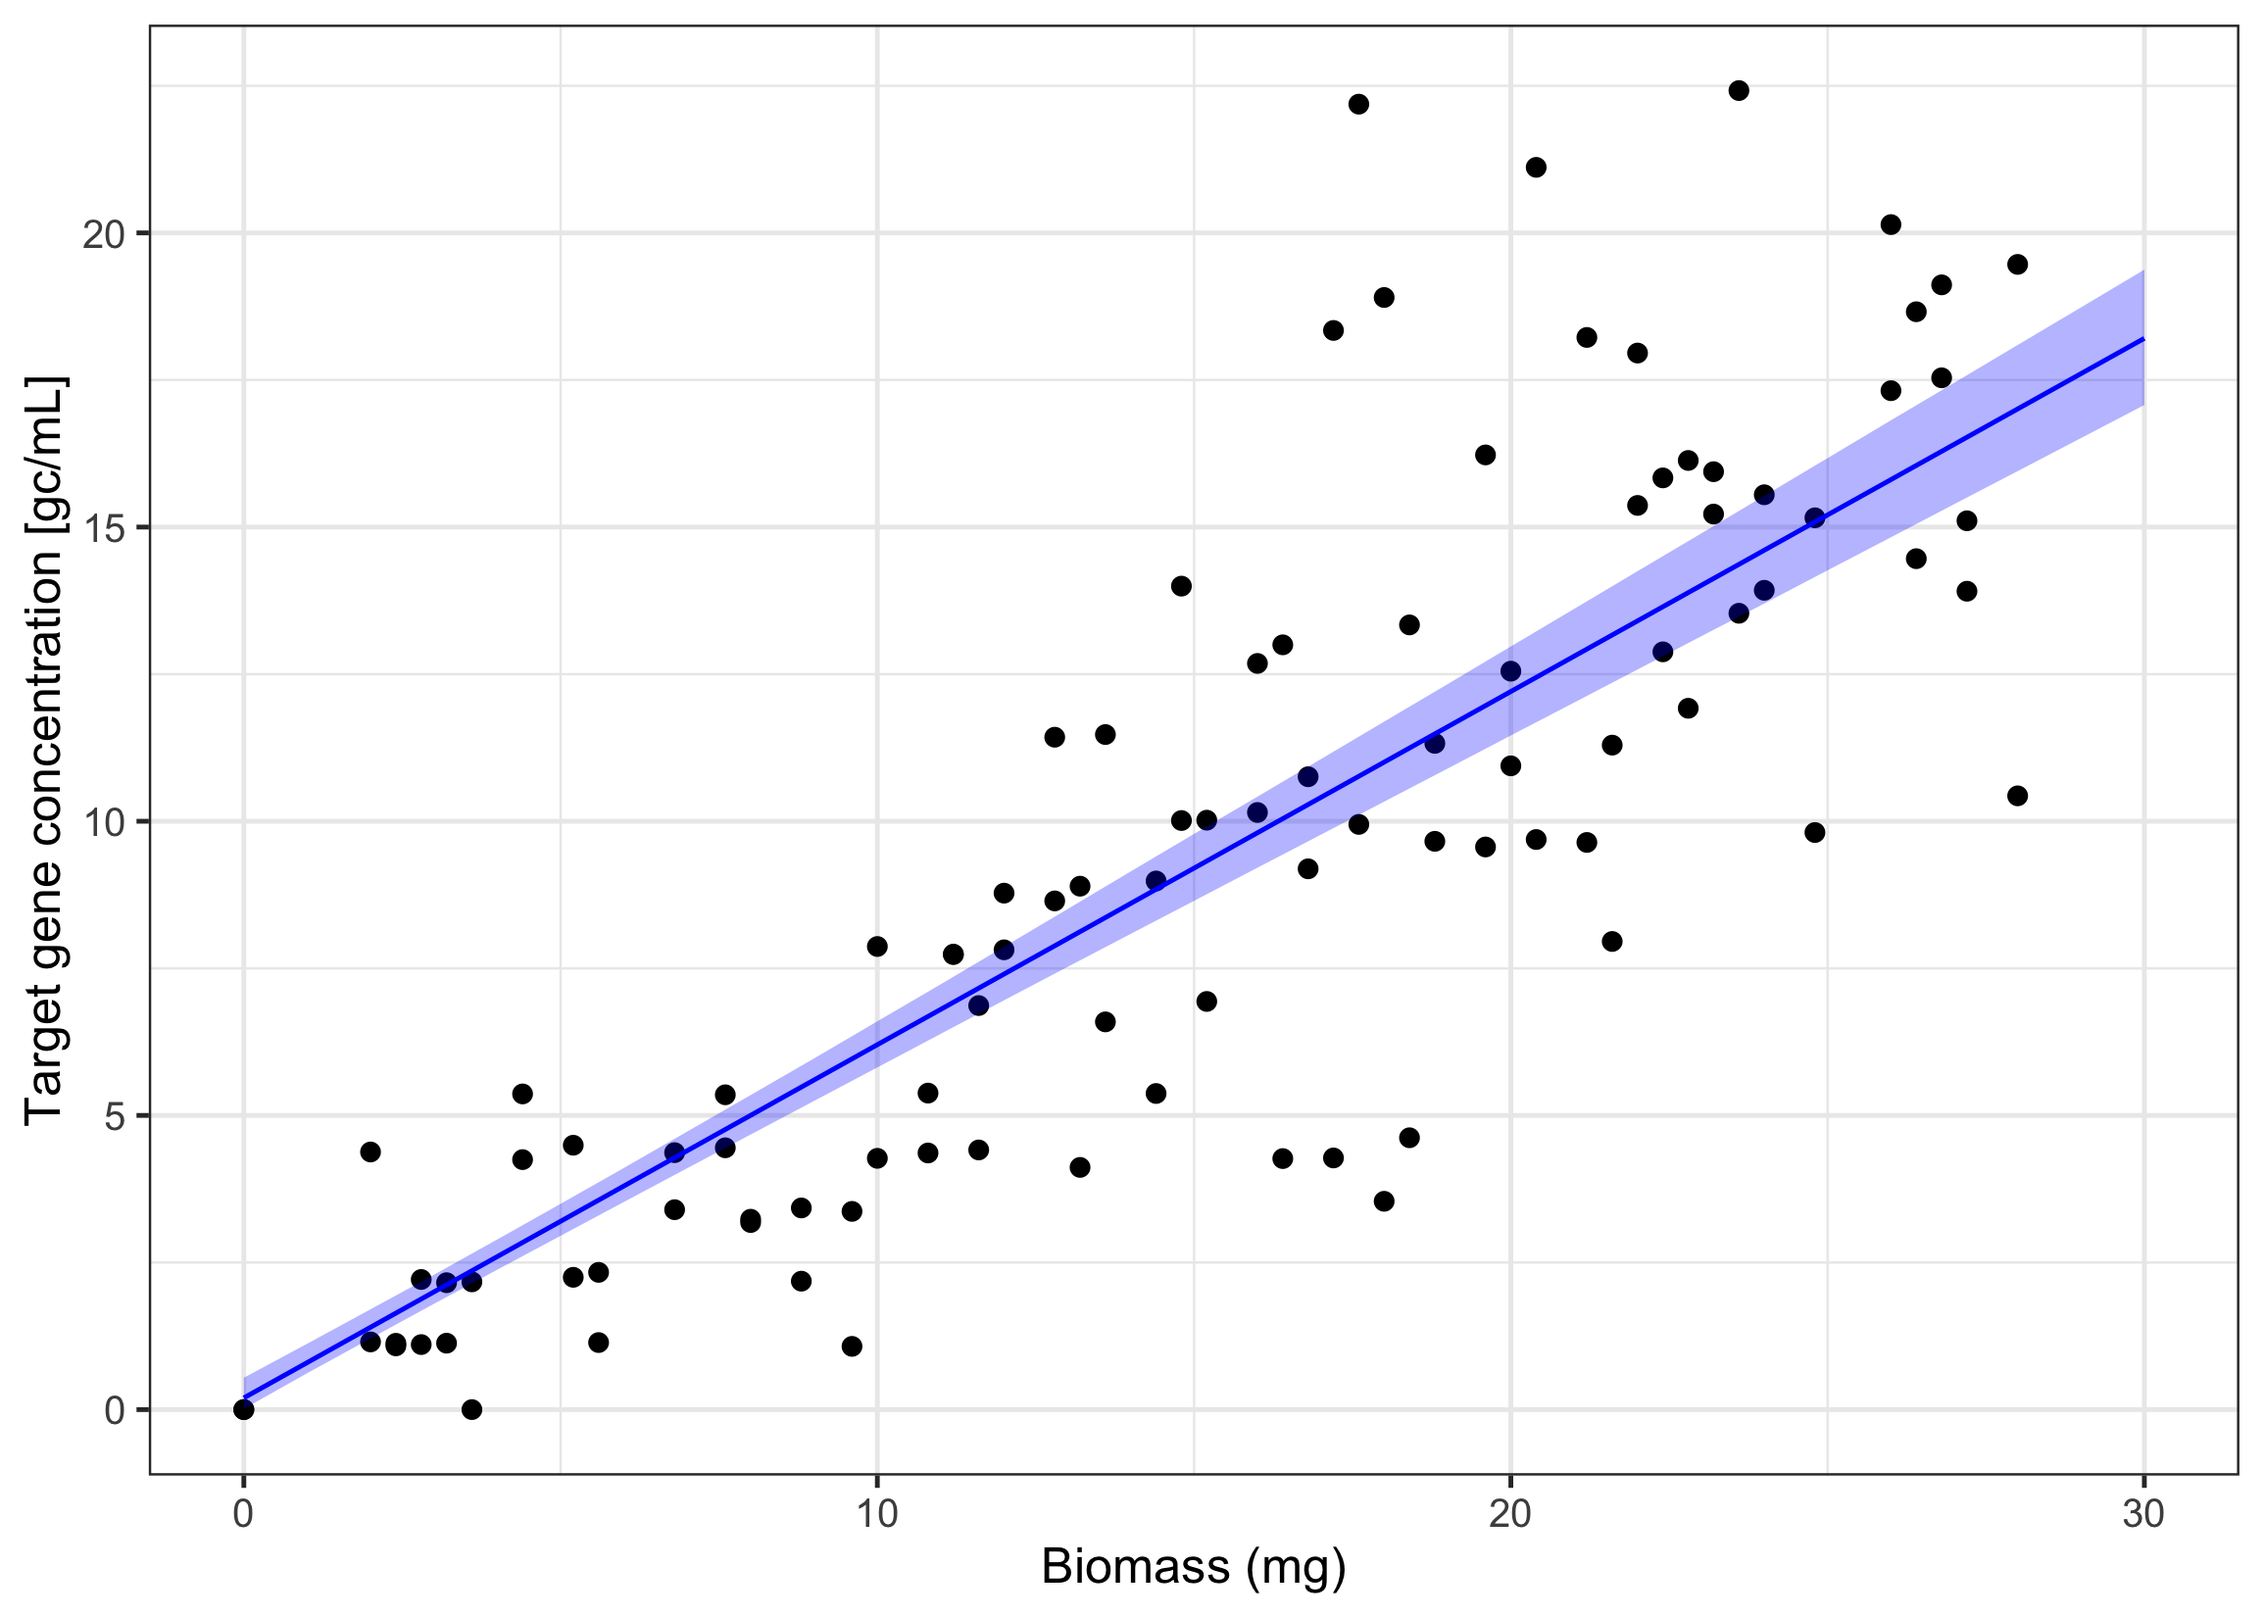
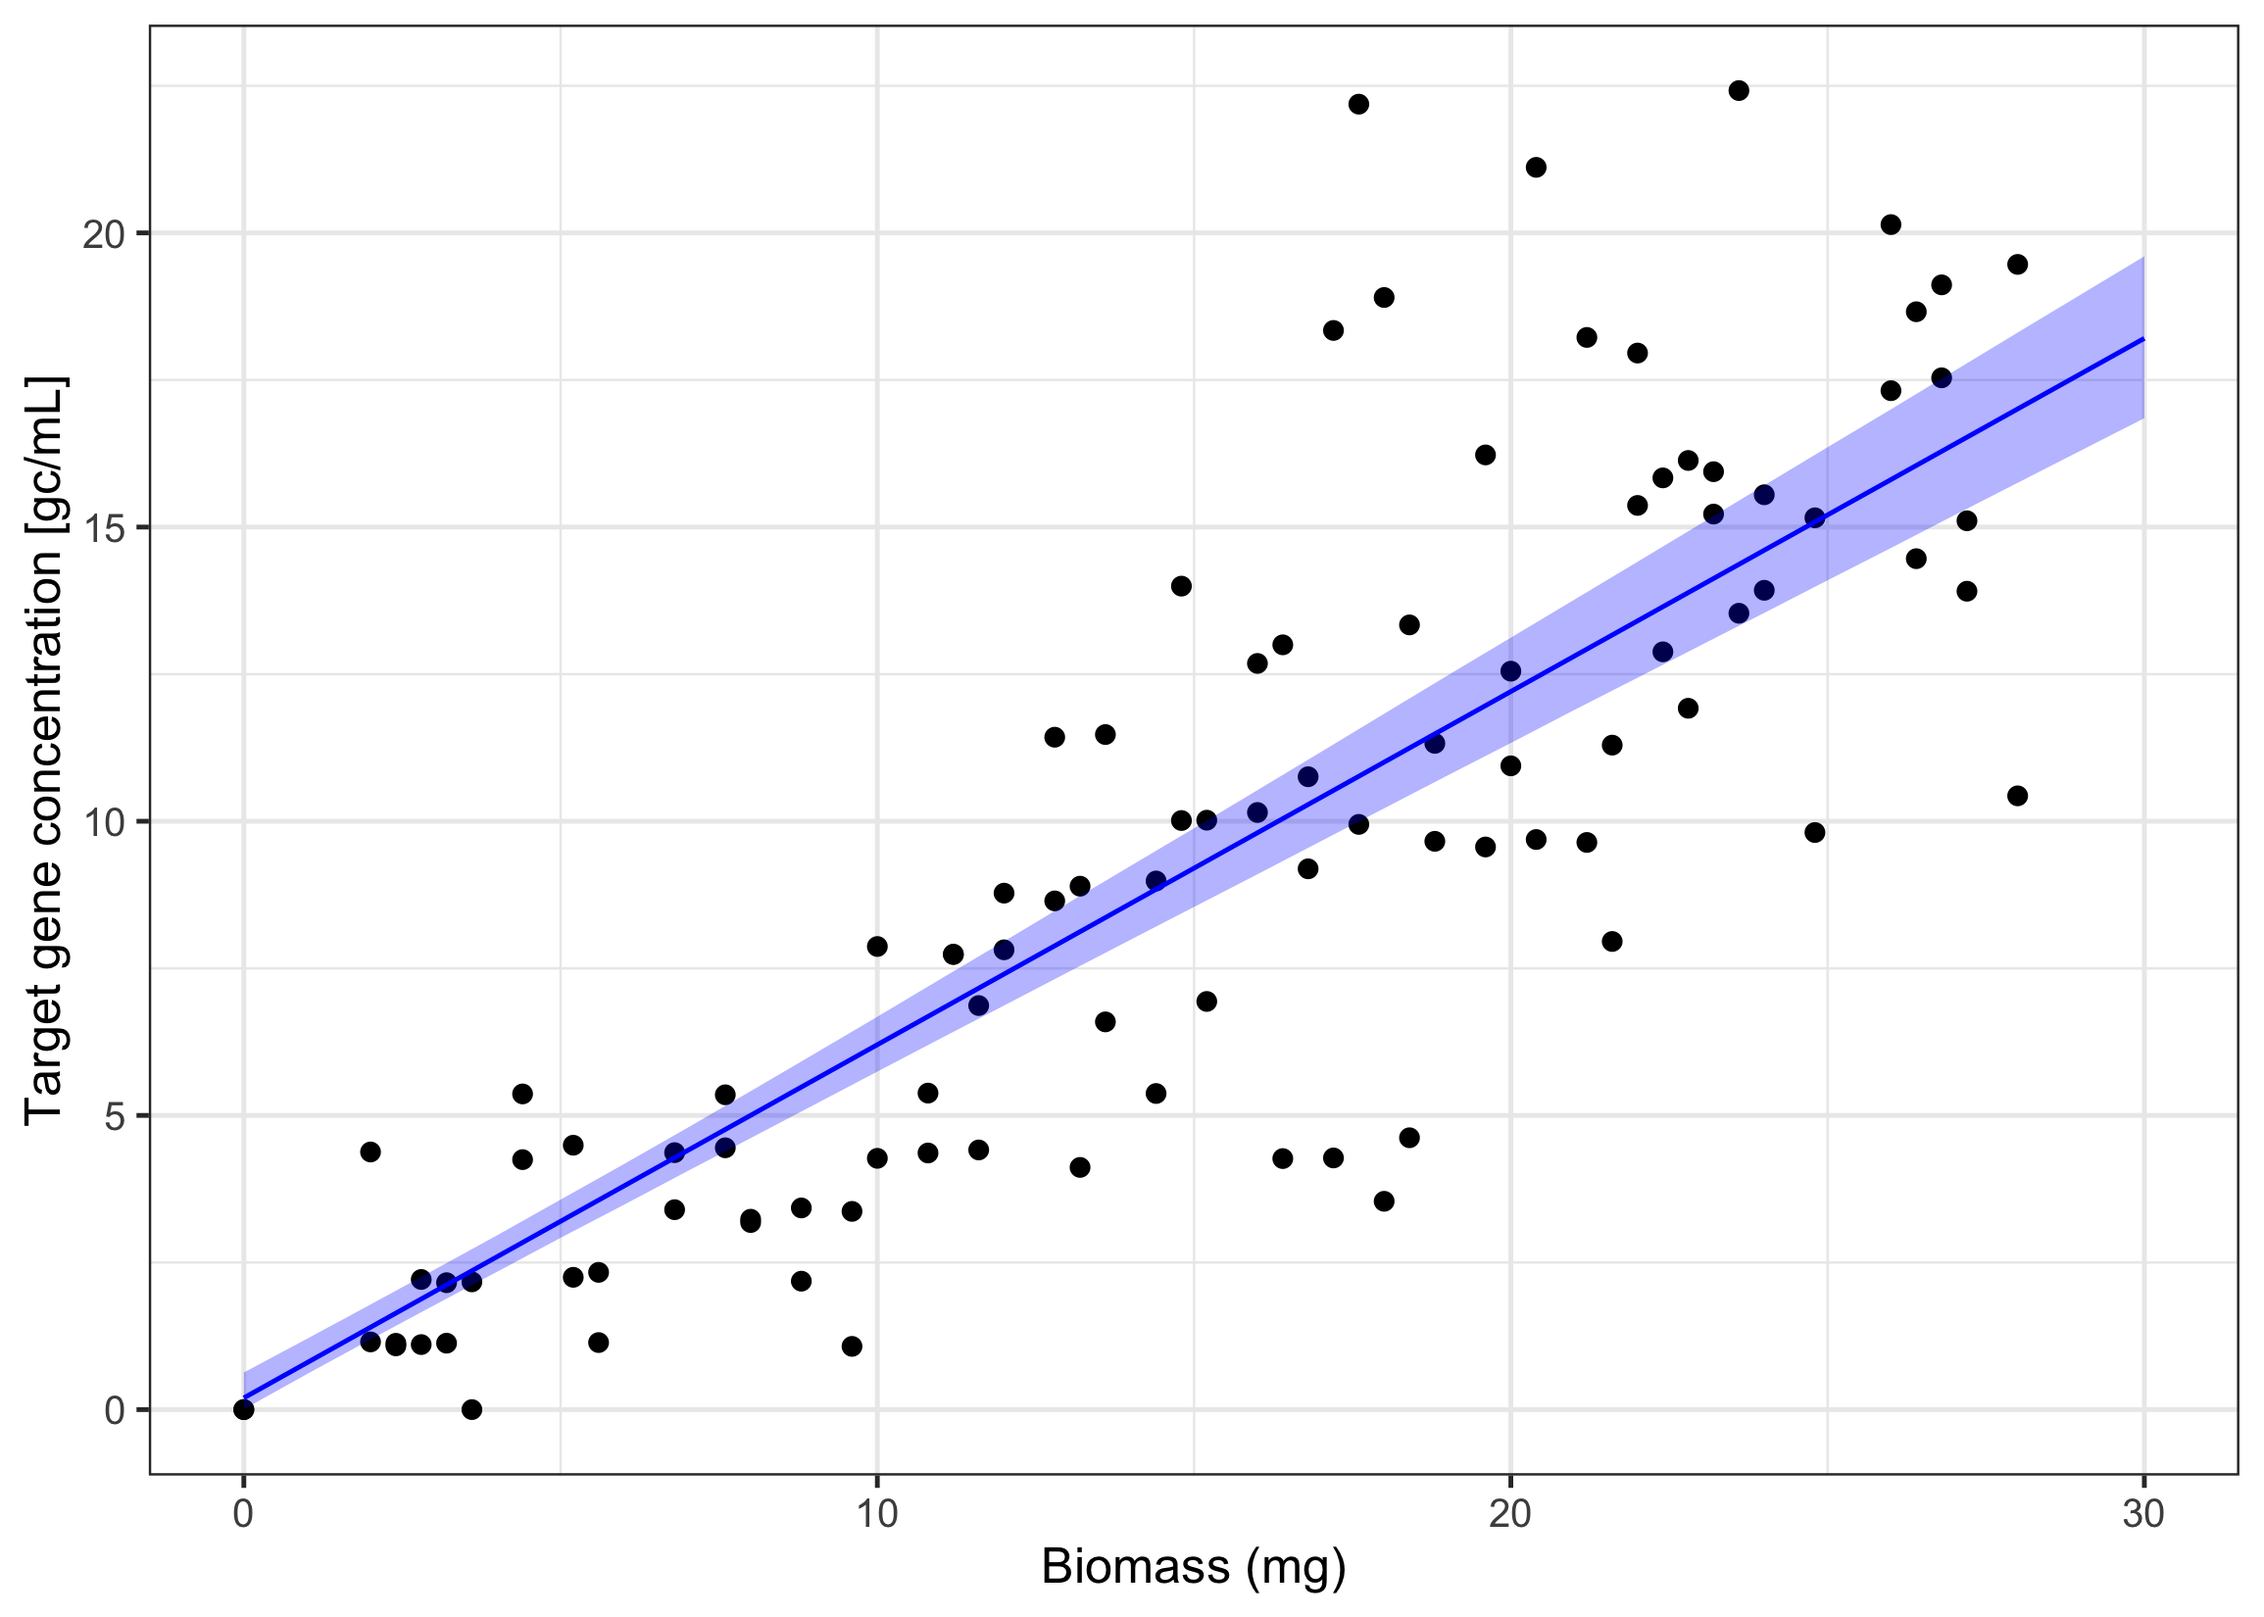
Update summary quantiles
Change default quantiles from 5% and 95% to 2.5% and 97.5% to obtain a 95% credible interval.

diff --git a/README.md b/README.md
@@ -187,8 +187,8 @@ fitted_model <- dPCRfit(
 #> Chain 3 Iteration:  200 / 2000 [ 10%]  (Warmup) 
 #> Chain 2 Iteration:  200 / 2000 [ 10%]  (Warmup) 
 #> Chain 4 Iteration:  200 / 2000 [ 10%]  (Warmup) 
-#> Chain 3 Iteration:  400 / 2000 [ 20%]  (Warmup) 
 #> Chain 1 Iteration:  200 / 2000 [ 10%]  (Warmup) 
+#> Chain 3 Iteration:  400 / 2000 [ 20%]  (Warmup) 
 #> Chain 2 Iteration:  400 / 2000 [ 20%]  (Warmup) 
 #> Chain 1 Iteration:  400 / 2000 [ 20%]  (Warmup) 
 #> Chain 3 Iteration:  600 / 2000 [ 30%]  (Warmup) 
@@ -197,8 +197,8 @@ fitted_model <- dPCRfit(
 #> Chain 1 Iteration:  600 / 2000 [ 30%]  (Warmup) 
 #> Chain 3 Iteration:  800 / 2000 [ 40%]  (Warmup) 
 #> Chain 1 Iteration:  800 / 2000 [ 40%]  (Warmup) 
-#> Chain 2 Iteration:  800 / 2000 [ 40%]  (Warmup) 
 #> Chain 4 Iteration:  600 / 2000 [ 30%]  (Warmup) 
+#> Chain 2 Iteration:  800 / 2000 [ 40%]  (Warmup) 
 #> Chain 4 Iteration:  800 / 2000 [ 40%]  (Warmup) 
 #> Chain 3 Iteration: 1000 / 2000 [ 50%]  (Warmup) 
 #> Chain 3 Iteration: 1001 / 2000 [ 50%]  (Sampling) 
@@ -214,28 +214,28 @@ fitted_model <- dPCRfit(
 #> Chain 4 Iteration: 1200 / 2000 [ 60%]  (Sampling) 
 #> Chain 1 Iteration: 1400 / 2000 [ 70%]  (Sampling) 
 #> Chain 2 Iteration: 1200 / 2000 [ 60%]  (Sampling) 
-#> Chain 3 Iteration: 1600 / 2000 [ 80%]  (Sampling) 
 #> Chain 4 Iteration: 1400 / 2000 [ 70%]  (Sampling) 
+#> Chain 3 Iteration: 1600 / 2000 [ 80%]  (Sampling) 
 #> Chain 1 Iteration: 1600 / 2000 [ 80%]  (Sampling) 
 #> Chain 3 Iteration: 1800 / 2000 [ 90%]  (Sampling) 
 #> Chain 4 Iteration: 1600 / 2000 [ 80%]  (Sampling) 
 #> Chain 1 Iteration: 1800 / 2000 [ 90%]  (Sampling) 
 #> Chain 2 Iteration: 1400 / 2000 [ 70%]  (Sampling) 
 #> Chain 3 Iteration: 2000 / 2000 [100%]  (Sampling) 
-#> Chain 3 finished in 32.5 seconds.
 #> Chain 4 Iteration: 1800 / 2000 [ 90%]  (Sampling) 
+#> Chain 3 finished in 18.6 seconds.
 #> Chain 1 Iteration: 2000 / 2000 [100%]  (Sampling) 
-#> Chain 1 finished in 33.1 seconds.
+#> Chain 1 finished in 19.0 seconds.
 #> Chain 4 Iteration: 2000 / 2000 [100%]  (Sampling) 
-#> Chain 4 finished in 34.2 seconds.
+#> Chain 4 finished in 19.8 seconds.
 #> Chain 2 Iteration: 1600 / 2000 [ 80%]  (Sampling) 
 #> Chain 2 Iteration: 1800 / 2000 [ 90%]  (Sampling) 
 #> Chain 2 Iteration: 2000 / 2000 [100%]  (Sampling) 
-#> Chain 2 finished in 40.0 seconds.
+#> Chain 2 finished in 25.0 seconds.
 #> 
 #> All 4 chains finished successfully.
-#> Mean chain execution time: 35.0 seconds.
-#> Total execution time: 40.5 seconds.
+#> Mean chain execution time: 20.6 seconds.
+#> Total execution time: 25.1 seconds.
 ```
 
 ## Results
@@ -250,9 +250,9 @@ summary(fitted_model)
 #> Number of observations: 100 
 #> 
 #> Coefficients:
-#> variable     mean    median  sd       mad     q5      q95     rhat    ess_bulk  ess_tail
-#> (Intercept)  0.1989  0.1545  0.17121  0.1475  0.0132  0.5412  0.9996  3127      1929    
-#> biomass      0.6003  0.6006  0.02537  0.0249  0.5589  0.6416  1.0009  6383      3046    
+#> variable     mean    median  sd       mad     lower_95  upper_95  rhat    ess_bulk  ess_tail
+#> (Intercept)  0.1989  0.1545  0.17121  0.1475  0.00642   0.6305    0.9996  3127      1929    
+#> biomass      0.6003  0.6006  0.02537  0.0249  0.54983   0.6491    1.0009  6383      3046    
 #> 
 #> Fitted via MCMC using 4 chains with each:
 #> 1000 warm-up iterations
@@ -275,7 +275,7 @@ model_prediction <- predict(
 ggplot(dPCR_data, aes(x=biomass)) +
   geom_point(aes(y=concentration)) +
   geom_line(data = model_prediction, aes(x = biomass, y = mean), color = "blue") +
-  geom_ribbon(data = model_prediction, aes(x = biomass, ymin = q5, ymax = q95), fill = "blue", alpha = 0.3) +
+  geom_ribbon(data = model_prediction, aes(x = biomass, ymin = lower_95, ymax = upper_95), fill = "blue", alpha = 0.3) +
   xlab("Biomass (mg)") + ylab("Target gene concentration [gc/mL]") +
   theme_bw()
 ```
@@ -289,7 +289,7 @@ The dashed line shows the simulated ground truth.
 ggplot(fitted_model$coef_summary) +
   geom_vline(xintercept = 0, linetype = "dashed") +
   geom_point(aes(y = variable, x = median)) +
-  geom_errorbar(aes(y = variable, xmin = q5, xmax = q95), width = 0.2) +
+  geom_errorbar(aes(y = variable, xmin = lower_95, xmax = upper_95), width = 0.2) +
   geom_vline(data = data.frame(variable = c("(Intercept)", "biomass"), true = c(0.2, 0.6)), aes(xintercept = true), linetype = "dotted", color = "darkred") +
   ylab("Coefficient") + xlab("Estimate") + facet_wrap(~variable, scales = "free", ncol = 1) +
   scale_x_continuous(expand = c(0.2, 0.2)) +
@@ -358,58 +358,58 @@ fitted_model_binomial <- dPCRfit(
 #> Chain 2 Iteration:    1 / 2000 [  0%]  (Warmup) 
 #> Chain 3 Iteration:    1 / 2000 [  0%]  (Warmup) 
 #> Chain 4 Iteration:    1 / 2000 [  0%]  (Warmup) 
-#> Chain 1 Iteration:  200 / 2000 [ 10%]  (Warmup) 
-#> Chain 3 Iteration:  200 / 2000 [ 10%]  (Warmup) 
-#> Chain 1 Iteration:  400 / 2000 [ 20%]  (Warmup) 
 #> Chain 4 Iteration:  200 / 2000 [ 10%]  (Warmup) 
-#> Chain 1 Iteration:  600 / 2000 [ 30%]  (Warmup) 
+#> Chain 1 Iteration:  200 / 2000 [ 10%]  (Warmup) 
 #> Chain 2 Iteration:  200 / 2000 [ 10%]  (Warmup) 
-#> Chain 3 Iteration:  400 / 2000 [ 20%]  (Warmup) 
+#> Chain 1 Iteration:  400 / 2000 [ 20%]  (Warmup) 
 #> Chain 4 Iteration:  400 / 2000 [ 20%]  (Warmup) 
-#> Chain 1 Iteration:  800 / 2000 [ 40%]  (Warmup) 
 #> Chain 2 Iteration:  400 / 2000 [ 20%]  (Warmup) 
-#> Chain 3 Iteration:  600 / 2000 [ 30%]  (Warmup) 
 #> Chain 4 Iteration:  600 / 2000 [ 30%]  (Warmup) 
-#> Chain 1 Iteration: 1000 / 2000 [ 50%]  (Warmup) 
-#> Chain 1 Iteration: 1001 / 2000 [ 50%]  (Sampling) 
-#> Chain 3 Iteration:  800 / 2000 [ 40%]  (Warmup) 
-#> Chain 4 Iteration:  800 / 2000 [ 40%]  (Warmup) 
+#> Chain 1 Iteration:  600 / 2000 [ 30%]  (Warmup) 
 #> Chain 2 Iteration:  600 / 2000 [ 30%]  (Warmup) 
-#> Chain 3 Iteration: 1000 / 2000 [ 50%]  (Warmup) 
-#> Chain 3 Iteration: 1001 / 2000 [ 50%]  (Sampling) 
+#> Chain 3 Iteration:  200 / 2000 [ 10%]  (Warmup) 
+#> Chain 2 Iteration:  800 / 2000 [ 40%]  (Warmup) 
+#> Chain 4 Iteration:  800 / 2000 [ 40%]  (Warmup) 
+#> Chain 1 Iteration:  800 / 2000 [ 40%]  (Warmup) 
+#> Chain 3 Iteration:  400 / 2000 [ 20%]  (Warmup) 
 #> Chain 4 Iteration: 1000 / 2000 [ 50%]  (Warmup) 
 #> Chain 4 Iteration: 1001 / 2000 [ 50%]  (Sampling) 
-#> Chain 1 Iteration: 1200 / 2000 [ 60%]  (Sampling) 
-#> Chain 2 Iteration:  800 / 2000 [ 40%]  (Warmup) 
-#> Chain 4 Iteration: 1200 / 2000 [ 60%]  (Sampling) 
-#> Chain 1 Iteration: 1400 / 2000 [ 70%]  (Sampling) 
 #> Chain 2 Iteration: 1000 / 2000 [ 50%]  (Warmup) 
 #> Chain 2 Iteration: 1001 / 2000 [ 50%]  (Sampling) 
-#> Chain 3 Iteration: 1200 / 2000 [ 60%]  (Sampling) 
+#> Chain 1 Iteration: 1000 / 2000 [ 50%]  (Warmup) 
+#> Chain 1 Iteration: 1001 / 2000 [ 50%]  (Sampling) 
+#> Chain 4 Iteration: 1200 / 2000 [ 60%]  (Sampling) 
+#> Chain 3 Iteration:  600 / 2000 [ 30%]  (Warmup) 
+#> Chain 1 Iteration: 1200 / 2000 [ 60%]  (Sampling) 
+#> Chain 3 Iteration:  800 / 2000 [ 40%]  (Warmup) 
 #> Chain 4 Iteration: 1400 / 2000 [ 70%]  (Sampling) 
-#> Chain 1 Iteration: 1600 / 2000 [ 80%]  (Sampling) 
 #> Chain 2 Iteration: 1200 / 2000 [ 60%]  (Sampling) 
+#> Chain 1 Iteration: 1400 / 2000 [ 70%]  (Sampling) 
+#> Chain 3 Iteration: 1000 / 2000 [ 50%]  (Warmup) 
+#> Chain 3 Iteration: 1001 / 2000 [ 50%]  (Sampling) 
 #> Chain 4 Iteration: 1600 / 2000 [ 80%]  (Sampling) 
-#> Chain 3 Iteration: 1400 / 2000 [ 70%]  (Sampling) 
+#> Chain 1 Iteration: 1600 / 2000 [ 80%]  (Sampling) 
+#> Chain 2 Iteration: 1400 / 2000 [ 70%]  (Sampling) 
 #> Chain 4 Iteration: 1800 / 2000 [ 90%]  (Sampling) 
 #> Chain 1 Iteration: 1800 / 2000 [ 90%]  (Sampling) 
-#> Chain 4 Iteration: 2000 / 2000 [100%]  (Sampling) 
-#> Chain 4 finished in 2.9 seconds.
-#> Chain 2 Iteration: 1400 / 2000 [ 70%]  (Sampling) 
-#> Chain 3 Iteration: 1600 / 2000 [ 80%]  (Sampling) 
-#> Chain 1 Iteration: 2000 / 2000 [100%]  (Sampling) 
-#> Chain 1 finished in 3.2 seconds.
+#> Chain 3 Iteration: 1200 / 2000 [ 60%]  (Sampling) 
 #> Chain 2 Iteration: 1600 / 2000 [ 80%]  (Sampling) 
-#> Chain 3 Iteration: 1800 / 2000 [ 90%]  (Sampling) 
+#> Chain 4 Iteration: 2000 / 2000 [100%]  (Sampling) 
+#> Chain 4 finished in 3.3 seconds.
+#> Chain 1 Iteration: 2000 / 2000 [100%]  (Sampling) 
+#> Chain 1 finished in 3.5 seconds.
+#> Chain 3 Iteration: 1400 / 2000 [ 70%]  (Sampling) 
 #> Chain 2 Iteration: 1800 / 2000 [ 90%]  (Sampling) 
-#> Chain 3 Iteration: 2000 / 2000 [100%]  (Sampling) 
-#> Chain 3 finished in 3.6 seconds.
+#> Chain 3 Iteration: 1600 / 2000 [ 80%]  (Sampling) 
 #> Chain 2 Iteration: 2000 / 2000 [100%]  (Sampling) 
-#> Chain 2 finished in 3.8 seconds.
+#> Chain 2 finished in 4.0 seconds.
+#> Chain 3 Iteration: 1800 / 2000 [ 90%]  (Sampling) 
+#> Chain 3 Iteration: 2000 / 2000 [100%]  (Sampling) 
+#> Chain 3 finished in 4.4 seconds.
 #> 
 #> All 4 chains finished successfully.
-#> Mean chain execution time: 3.4 seconds.
-#> Total execution time: 4.1 seconds.
+#> Mean chain execution time: 3.8 seconds.
+#> Total execution time: 4.6 seconds.
 ```
 
 We obtain a very similar result as when fitting to concentration
@@ -423,9 +423,9 @@ summary(fitted_model_binomial)
 #> Number of observations: 100 
 #> 
 #> Coefficients:
-#> variable     mean    median  sd       mad      q5        q95     rhat   ess_bulk  ess_tail
-#> (Intercept)  0.1462  0.1039  0.13675  0.10520  0.007943  0.4233  1.001  3118      1933    
-#> biomass      0.5681  0.5679  0.02338  0.02318  0.530470  0.6067  1.001  5325      3179    
+#> variable     mean    median  sd       mad      lower_95  upper_95  rhat   ess_bulk  ess_tail
+#> (Intercept)  0.1464  0.111   0.13001  0.10808  0.004658  0.4736    1.001  3788      2262    
+#> biomass      0.5680  0.568   0.02378  0.02397  0.521637  0.6150    1.001  4918      3183    
 #> 
 #> Fitted via MCMC using 4 chains with each:
 #> 1000 warm-up iterations
@@ -446,7 +446,7 @@ model_prediction <- predict(
 ggplot(dPCR_data, aes(x=biomass)) +
   geom_point(aes(y=concentration)) +
   geom_line(data = model_prediction, aes(x = biomass, y = mean), color = "blue") +
-  geom_ribbon(data = model_prediction, aes(x = biomass, ymin = q5, ymax = q95), fill = "blue", alpha = 0.3) +
+  geom_ribbon(data = model_prediction, aes(x = biomass, ymin = lower_95, ymax = upper_95), fill = "blue", alpha = 0.3) +
   xlab("Biomass (mg)") + ylab("Target gene concentration [gc/mL]") +
   theme_bw()
 ```
